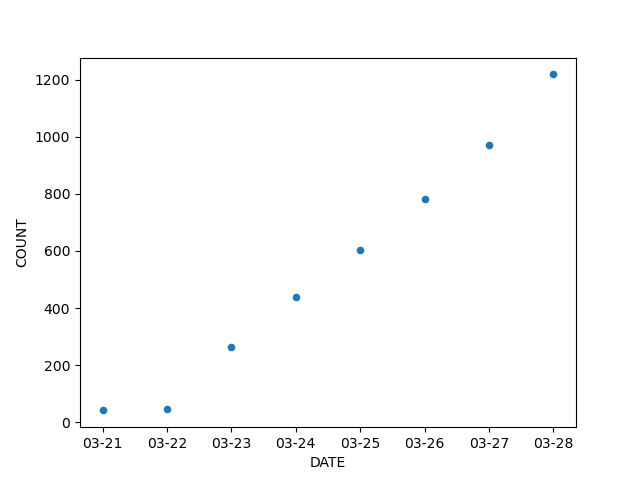
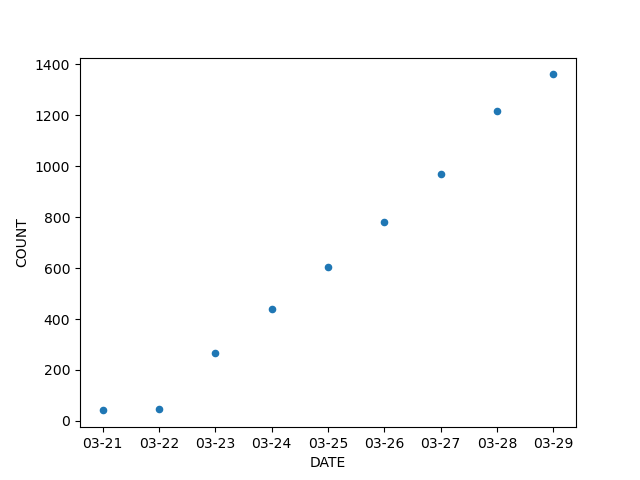
03/29 fix no data

diff --git a/covid-19/getcount.py b/covid-19/getcount.py
@@ -52,9 +52,13 @@ def append(filename, record) :
     else :
         csv_str = csv_str[1:]
         cur_record = ''
+    
+    # no record, use previous record
+    if not record :
+        csv_str += cur_record[6:]
 
     # only append if a new count is obtained
-    if cur_record != datetime.today().strftime('%m-%d')+","+record :
+    if ("\n" + cur_record) != csv_str :
         with open(filename,'a') as fd:
             fd.write(csv_str)
 

diff --git a/covid-19/README.md b/covid-19/README.md
@@ -19,3 +19,5 @@ Collection of cases from the [Quebec government site](https://www.quebec.ca/sant
 
 03/26 : The linear increase in recent dates likely attributes to the limited testing conducted per day. - Note by me (not authority)
 
+03/29 : In days that lack recovered cases data, used previous day's count instead. - Note by me
+
